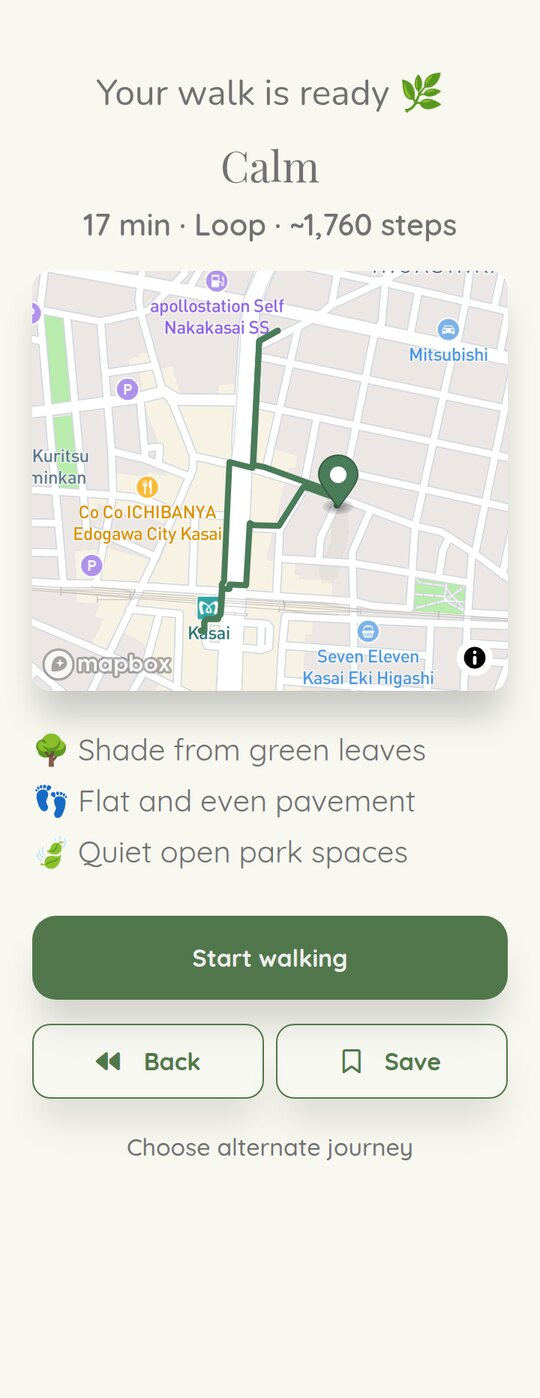
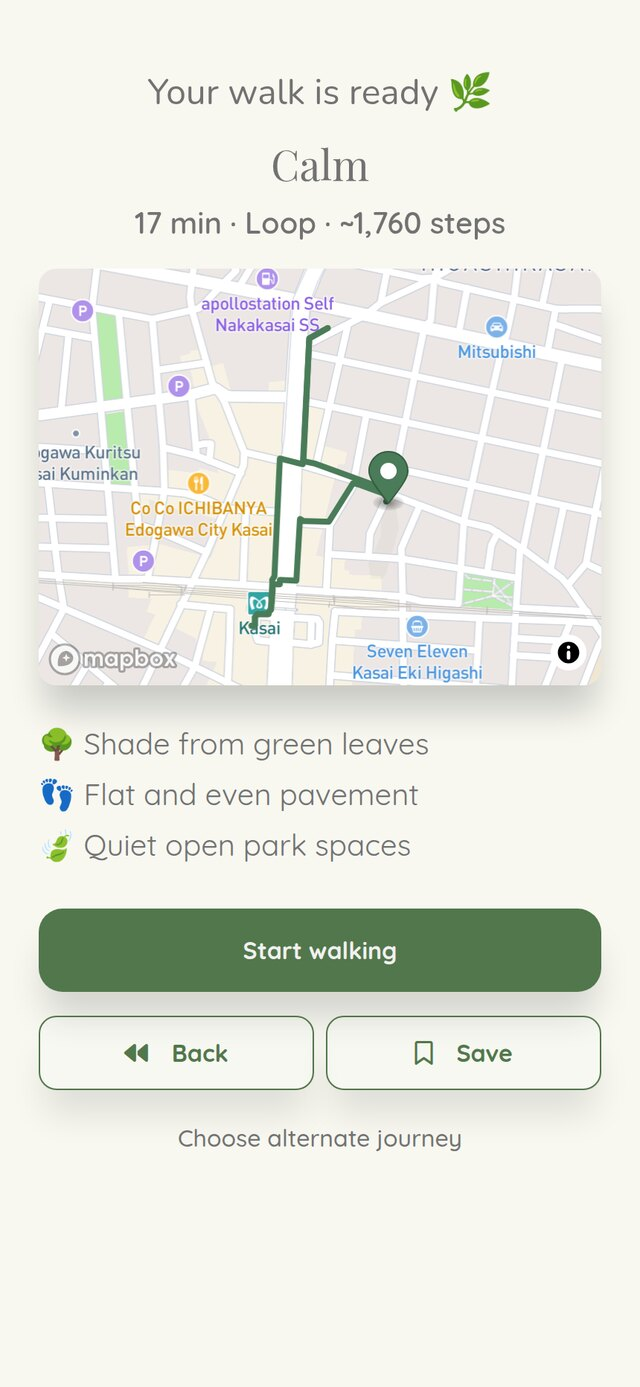
Show the walk as rows, not a grid of tiles
Six tall phone screens in a 3x2 grid gave each one a narrow strip and pushed
its caption a long way beneath it, and four things read as mistakes rather
than as screens:

- steps 01 and 02 were the same home screen, 02 just greyed out behind a
  sheet, so side by side they looked like a duplicate. 02 is now cropped to
  the sheet itself, measured from its own bounding box.
- the post-walk stat row wrapped onto three lines at 360px wide. Captured at
  430 instead, which is a viewport it fits on one line.
- screens whose content ended before the fold carried a band of empty page.
  Each capture is now trimmed to its own content height.
- the screens were bare rectangles of cream, grey and photograph against a
  dark page. They sit in a rounded, bordered frame now.

One step per row, screen beside caption, alternating sides. The captions grew
a sentence each to balance a 700px screen, all of it checked against the code:
the random theme pick behind "Surprise me", the no-target selection path, the
shared 0.76 m step length, and the plain-Ruby quote saved before the model
answers.

diff --git a/moodwalk.html b/moodwalk.html
@@ -66,40 +66,52 @@
 
       <ol class="journey">
         <li class="journey__step">
-          <div class="journey__shot"><img src="images/moodwalk/1-feel.jpg" alt="Moodwalk's home screen, offering the feelings Calm, Refresh, Cheerful, Recharge and Surprise me." width="540" height="1398" loading="lazy"></div>
-          <span class="journey__no">01</span>
-          <span class="journey__name">Pick a feeling</span>
-          <p class="journey__note">Not a filter over pre-made routes. The feeling chooses which Google Places categories get searched near you.</p>
+          <div class="journey__shot"><img src="images/moodwalk/1-feel.jpg" alt="Moodwalk's home screen, offering the feelings Calm, Refresh, Cheerful, Recharge and Surprise me." width="640" height="1387" loading="lazy"></div>
+          <div class="journey__body">
+            <span class="journey__no">01</span>
+            <span class="journey__name">Pick a feeling</span>
+            <p class="journey__note">Not a filter over pre-made routes. The feeling decides which Google Places categories get searched near you, so the same spot on the map gives a different walk depending on the answer. “Surprise me” picks one of the five at random, server-side.</p>
+          </div>
         </li>
         <li class="journey__step">
-          <div class="journey__shot"><img src="images/moodwalk/2-duration.jpg" alt="A sheet asking how long you have, offering 10, 20 and 30 minutes or 'No rush'." width="540" height="1398" loading="lazy"></div>
-          <span class="journey__no">02</span>
-          <span class="journey__name">Say how long</span>
-          <p class="journey__note">The minutes become a target distance at a fixed 1.33 m/s — the same pace handed to Mapbox, so its estimate agrees with the number you picked.</p>
+          <div class="journey__shot"><img src="images/moodwalk/2-duration.jpg" alt="A sheet asking how long you have, offering 10, 20 and 30 minutes or 'No rush'." width="640" height="768" loading="lazy"></div>
+          <div class="journey__body">
+            <span class="journey__no">02</span>
+            <span class="journey__name">Say how long</span>
+            <p class="journey__note">The minutes become a target distance at a fixed 1.33 m/s — the same pace handed to Mapbox, so its estimate agrees with the number you picked rather than with its own default. Choose “No rush” and there is no target at all: the selector optimises for spread and variety instead of fitting a clock.</p>
+          </div>
         </li>
         <li class="journey__step">
-          <div class="journey__shot"><img src="images/moodwalk/3-route.jpg" alt="The generated route: a 17-minute loop of about 1,760 steps drawn over a map, with three highlights listed below it." width="540" height="1398" loading="lazy"></div>
-          <span class="journey__no">03</span>
-          <span class="journey__name">Get a route</span>
-          <p class="journey__note">A loop or a one-way trip, whichever the nearby places support. Distance and step count come from the route Mapbox actually returned.</p>
+          <div class="journey__shot"><img src="images/moodwalk/3-route.jpg" alt="The generated route: a 17-minute loop of about 1,760 steps drawn over a map, with three highlights listed below it." width="640" height="1387" loading="lazy"></div>
+          <div class="journey__body">
+            <span class="journey__no">03</span>
+            <span class="journey__name">Get a route</span>
+            <p class="journey__note">A loop or a one-way trip, whichever the nearby places support — the test for which is two sections down. Distance and step count come from the route Mapbox actually returned, not from the target that was asked for.</p>
+          </div>
         </li>
         <li class="journey__step">
-          <div class="journey__shot"><img src="images/moodwalk/4-walking.jpg" alt="The in-walk screen: a large arrow, the instruction 'Keep going straight', and the next turn below it." width="540" height="1398" loading="lazy"></div>
-          <span class="journey__no">04</span>
-          <span class="journey__name">Walk it</span>
-          <p class="journey__note">Turn-by-turn from the route's own steps, simplified to left, right and end. GPS breadcrumbs are buffered and posted as you go.</p>
+          <div class="journey__shot"><img src="images/moodwalk/4-walking.jpg" alt="The in-walk screen: a large arrow, the instruction 'Keep going straight', and the next turn below it." width="640" height="1387" loading="lazy"></div>
+          <div class="journey__body">
+            <span class="journey__no">04</span>
+            <span class="journey__name">Walk it</span>
+            <p class="journey__note">Turn-by-turn from the route’s own steps, simplified to left, right and end. GPS breadcrumbs are buffered and posted as you go, which is what makes the comparison on the next screen possible. In development the walk can be simulated at speed — which is how this screen was captured without walking it.</p>
+          </div>
         </li>
         <li class="journey__step">
-          <div class="journey__shot"><img src="images/moodwalk/5-reflect.jpg" alt="The post-walk screen: steps, time and distance, a row of mood faces, a reflection box, and a map comparing the suggested route with the one walked." width="540" height="1398" loading="lazy"></div>
-          <span class="journey__no">05</span>
-          <span class="journey__name">Log how it went</span>
-          <p class="journey__note">Steps, time and distance come from the breadcrumb trail, and the map draws the suggested route against the one actually walked.</p>
+          <div class="journey__shot"><img src="images/moodwalk/5-reflect.jpg" alt="The post-walk screen: steps, time and distance, a row of mood faces, a reflection box, and a map comparing the suggested route with the one walked." width="640" height="1387" loading="lazy"></div>
+          <div class="journey__body">
+            <span class="journey__no">05</span>
+            <span class="journey__name">Log how it went</span>
+            <p class="journey__note">Steps, time and distance come from the breadcrumb trail, and the map draws the suggested route against the one actually walked. Planned and actual steps divide by the same 0.76 m, or every walk would report a gap it never had.</p>
+          </div>
         </li>
         <li class="journey__step">
-          <div class="journey__shot"><img src="images/moodwalk/6-memory.jpg" alt="The memory card: the date, mood before and after, and a written line about the walk." width="540" height="1398" loading="lazy"></div>
-          <span class="journey__no">06</span>
-          <span class="journey__name">Keep the memory</span>
-          <p class="journey__note">Mood before and after, and a line written by the model from the reflection you left. The one piece of generated prose the walker actually keeps.</p>
+          <div class="journey__shot"><img src="images/moodwalk/6-memory.jpg" alt="The memory card: the date, mood before and after, and a written line about the walk." width="640" height="1387" loading="lazy"></div>
+          <div class="journey__body">
+            <span class="journey__no">06</span>
+            <span class="journey__name">Keep the memory</span>
+            <p class="journey__note">Mood before and after, and a line written by the model from the reflection you left — the one piece of generated prose the walker actually keeps. A plain-Ruby quote is saved first, so a card is never blank while the model is still thinking.</p>
+          </div>
         </li>
       </ol>
     </section>

diff --git a/css/components/case-study.css b/css/components/case-study.css
@@ -101,33 +101,42 @@
 }
 
 /* -- The walk, end to end -------------------------------------------------
-   Six screens in source order. auto-fit rather than a fixed column count so
-   the row reflows to three, two and one without a media query per step. */
-.journey {
-  display: grid;
-  grid-template-columns: repeat(auto-fit, minmax(min(220px, 100%), 1fr));
-  gap: 26px;
+   One step per row, screen beside its caption, sides alternating. A grid of
+   six tall phone screens put the caption a long way under the thing it
+   described, and shrank each screen to a strip. */
+.journey { display: flex; flex-direction: column; gap: 72px; }
+
+.journey__step {
+  display: flex;
+  align-items: center;
+  gap: 64px;
 }
 
-.journey__step { display: flex; flex-direction: column; gap: 14px; }
+/* Alternate which side the screen sits on. row-reverse rather than an order
+   swap, so the DOM keeps reading 01, 02, 03 for a screen reader. */
+.journey__step:nth-child(even) { flex-direction: row-reverse; }
 
 .journey__shot {
+  flex: 0 0 280px;
   border: 1px solid var(--line);
-  border-radius: var(--radius);
+  border-radius: 14px;
   overflow: hidden;
   background: #101417;
 }
 
 .journey__shot img { width: 100%; }
 
+.journey__body { display: flex; flex-direction: column; gap: 12px; max-width: 460px; }
+
 .journey__no {
   font-family: var(--font-display);
-  font-size: 13px;
+  font-size: 14px;
+  letter-spacing: 2px;
   color: var(--accent);
 }
 
-.journey__name { font-size: 15px; font-weight: 700; }
-.journey__note { font-size: 13px; line-height: 1.55; color: #7d848a; }
+.journey__name { font-family: var(--font-display); font-weight: 800; font-size: 26px; }
+.journey__note { font-size: 17px; line-height: 1.7; color: var(--text-muted); }
 
 /* -- Pipeline ------------------------------------------------------------- */
 .pipeline {
@@ -218,6 +227,11 @@
   :root { --gutter: 64px; }
   .gps { grid-template-columns: minmax(0, 1fr); gap: 34px; }
   .case-section--split { grid-template-columns: minmax(0, 1fr); gap: 24px; }
+  /* Stacked, every step reads top-down in the same direction; a reversed
+     column would put step 02's caption above its screen and the rest below. */
+  .journey__step,
+  .journey__step:nth-child(even) { flex-direction: column; align-items: flex-start; gap: 24px; }
+  .journey__shot { flex: 0 0 auto; width: min(300px, 100%); align-self: center; }
 }
 
 @media (max-width: 720px) {
@@ -225,5 +239,6 @@
   .case-head { padding: 48px var(--gutter) 40px; }
   .case-hero { padding: 0 var(--gutter) 48px; }
   .spread__case { flex-direction: column; align-items: flex-start; gap: 20px; }
+  .journey { gap: 48px; }
   .case-close { padding: 48px var(--gutter); }
 }
